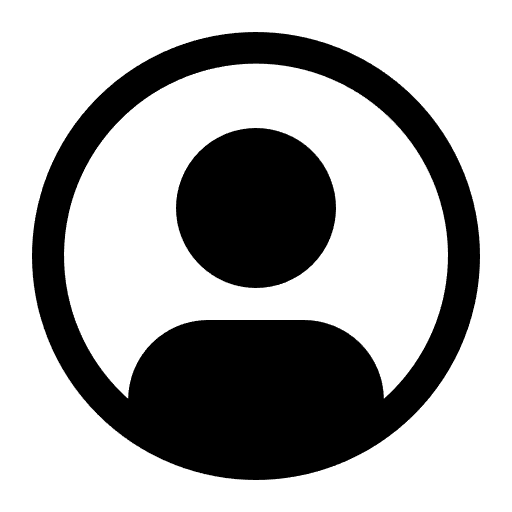
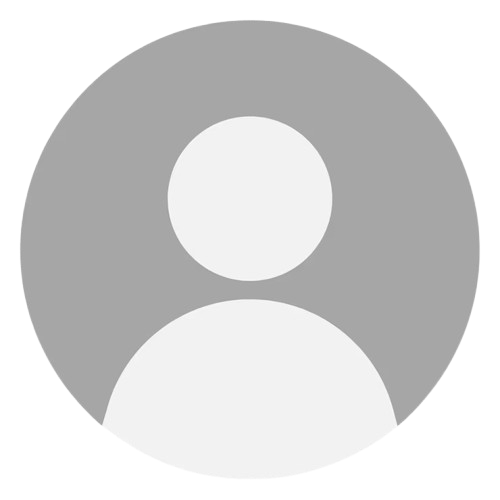
[NEW] Minor changes on scss

diff --git a/assets/styles/pages/_balade_show.scss b/assets/styles/pages/_balade_show.scss
@@ -18,6 +18,7 @@
 
       // ── Header : titre + boutons ──
       .balade-header {
+        position: relative;
         @include m.flex-center-vert;
         justify-content: space-between;
         gap: 1rem;
@@ -27,6 +28,77 @@
         @include m.phone {
           padding: 1.25rem;
         }
+
+        .card-dropdown {
+                position: absolute;
+                top: 2rem;
+                right: 2rem;
+                z-index: 10;
+
+                &-btn {
+                    display: flex;
+                    align-items: center;
+                    justify-content: center;
+                    background: rgba(255, 255, 255, 0.85);
+                    border: 1px solid gray;
+                    border-radius: 8px;
+                    padding: 0.35rem;
+                    cursor: pointer;
+                    color: v.$text-p-color;
+                    transition: background 0.2s;
+                    backdrop-filter: blur(4px);
+
+                    &:hover {
+                        background: white;
+                    }
+                }
+
+                &-menu {
+                    display: none;
+                    position: absolute;
+                    top: calc(100% + 0.35rem);
+                    right: 0;
+                    background: white;
+                    border: 1px solid rgba(0, 0, 0, 0.08);
+                    border-radius: 10px;
+                    box-shadow: 0 4px 16px rgba(0, 0, 0, 0.12);
+                    width: 150px;
+                    list-style: none;
+                    padding: 0.4rem;
+                    margin: 0;
+
+                    &.open {
+                        display: block;
+                    }
+
+                    li a, li button {
+                        display: flex;
+                        align-items: center;
+                        width: 100%;
+                        padding: 0.5rem 0.75rem;
+                        border-radius: 6px;
+                        font-size: 0.875rem;
+                        color: v.$text-p-color;
+                        text-decoration: none;
+                        transition: background 0.15s;
+                        outline: none;
+                        border: none;
+
+                        &:hover {
+                            background: v.$bg-color;
+                            color: v.$text-title-color;
+                        }
+
+                        &.danger {
+                            color: #c0392b;
+
+                            &:hover {
+                                background: rgba(192, 57, 43, 0.08);
+                            }
+                        }
+                    }
+                }
+            }
       }
 
       .balade-title {

diff --git a/assets/Javascript/balade-map.js b/assets/Javascript/balade-map.js
@@ -163,7 +163,7 @@ export function initBaladeMap() {
 
   function drawPoly(pts, type) {
     const color  = type === 'ors' ? '#4a7c59' : '#7b5ea7';
-    const shadow = L.polyline(pts, { color: '#3d2b1f', weight: 9, opacity: .07 }).addTo(map);
+    const shadow = L.polyline(pts, { color: '#3d2b1f', weight: 9, opacity: 1 }).addTo(map);
     const line   = L.polyline(pts, {
       color, weight: 5, opacity: .9, lineCap: 'round', lineJoin: 'round',
       ...(type === 'free' ? { dashArray: '8 6' } : {}),

diff --git a/assets/styles/pages/_groups.scss b/assets/styles/pages/_groups.scss
@@ -321,7 +321,6 @@
     }
 
     &--danger {
-        border-left: 3px solid rgba(192, 57, 43, 0.5);
         padding: 1.25rem 1.5rem;
     }
 